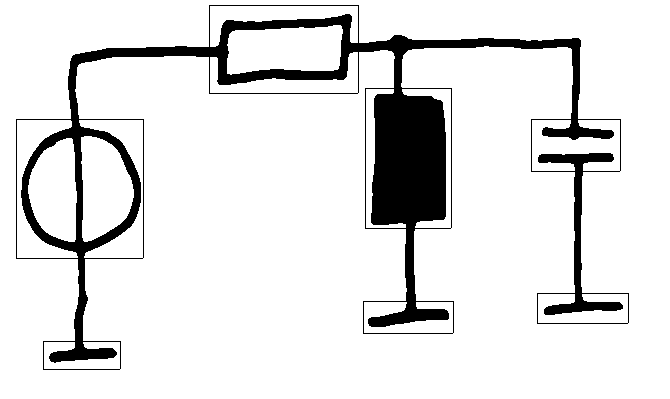
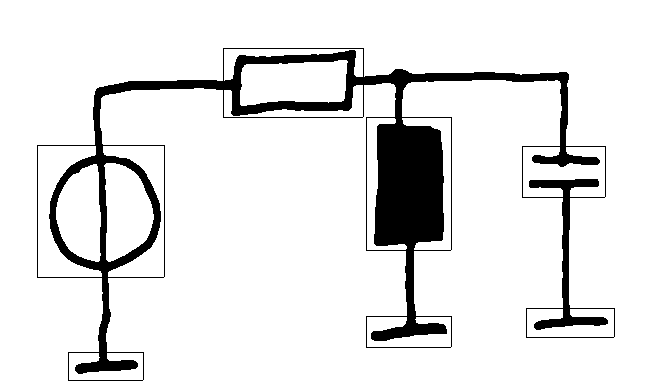
:construction: gui changes

Changed region(s): [[0.0299, 0.0, 0.9254, 0.9871], [0.5373, 0.7095, 0.6866, 0.8946]]

diff --git a/lib/gui/createBinary.py b/lib/gui/createBinary.py
@@ -6,10 +6,8 @@ from lib.gui.guiUtils import *
 
 class CreateBinary():
 
-    def __init__(self, root, position):
+    def __init__(self, root):
 
-        self.position = position
-        
         self.canvas = Canvas(root)
 
         self.reset = Button(root, text='Reset', command=self.reset_image)
@@ -76,7 +74,7 @@ class CreateBinary():
         self.image_on_canvas = self.canvas.create_image(0, 0, anchor=CENTER, image=self.tkImg)
         
 
-        self.canvas.place(relx=self.position[0], rely=self.position[1], relwidth=self.position[2], relheight=self.position[3])
+        self.canvas.place(relx=0.01, rely=0.01, relwidth=0.7, relheight=0.95)
         self.canvas.update()
         self.resize(self.original_image)
 

diff --git a/lib/gui/detectCircuit.py b/lib/gui/detectCircuit.py
@@ -29,10 +29,8 @@ import time
 
 class DetectCircuit():
 
-    def __init__(self, root, position):
+    def __init__(self, root):
 
-        self.position = position
-        
         self.canvas = Canvas(root)
 
         self.detect = Button(root, text='Detect Circuit', command=self.start_detection)
@@ -52,7 +50,7 @@ class DetectCircuit():
         self.image_on_canvas = self.canvas.create_image(0, 0, anchor=CENTER, image=self.tkImg)
         
 
-        self.canvas.place(relx=self.position[0], rely=self.position[1], relwidth=self.position[2], relheight=self.position[3])
+        self.canvas.place(relx=0.01, rely=0.01, relwidth=0.7, relheight=0.95)
         self.canvas.update()
         self.resize(self.original_image)
 

diff --git a/lib/gui/cropImage.py b/lib/gui/cropImage.py
@@ -7,9 +7,7 @@ import cv2
 
 class CropImage():
 
-    def __init__(self, root, position):
-
-        self.position = position
+    def __init__(self, root):
 
         self.canvas = Canvas(root)
 
@@ -83,7 +81,7 @@ class CropImage():
         self.tkImg = convert_to_tkImg(self.original_image)
         self.image_on_canvas = self.canvas.create_image(0, 0, anchor=CENTER, image=self.tkImg)
         
-        self.canvas.place(relx=self.position[0], rely=self.position[1], relwidth=self.position[2], relheight=self.position[3])
+        self.canvas.place(relx=0.01, rely=0.01, relwidth=0.7, relheight=0.95)
         
         self.canvas.update()
         self.resize()
